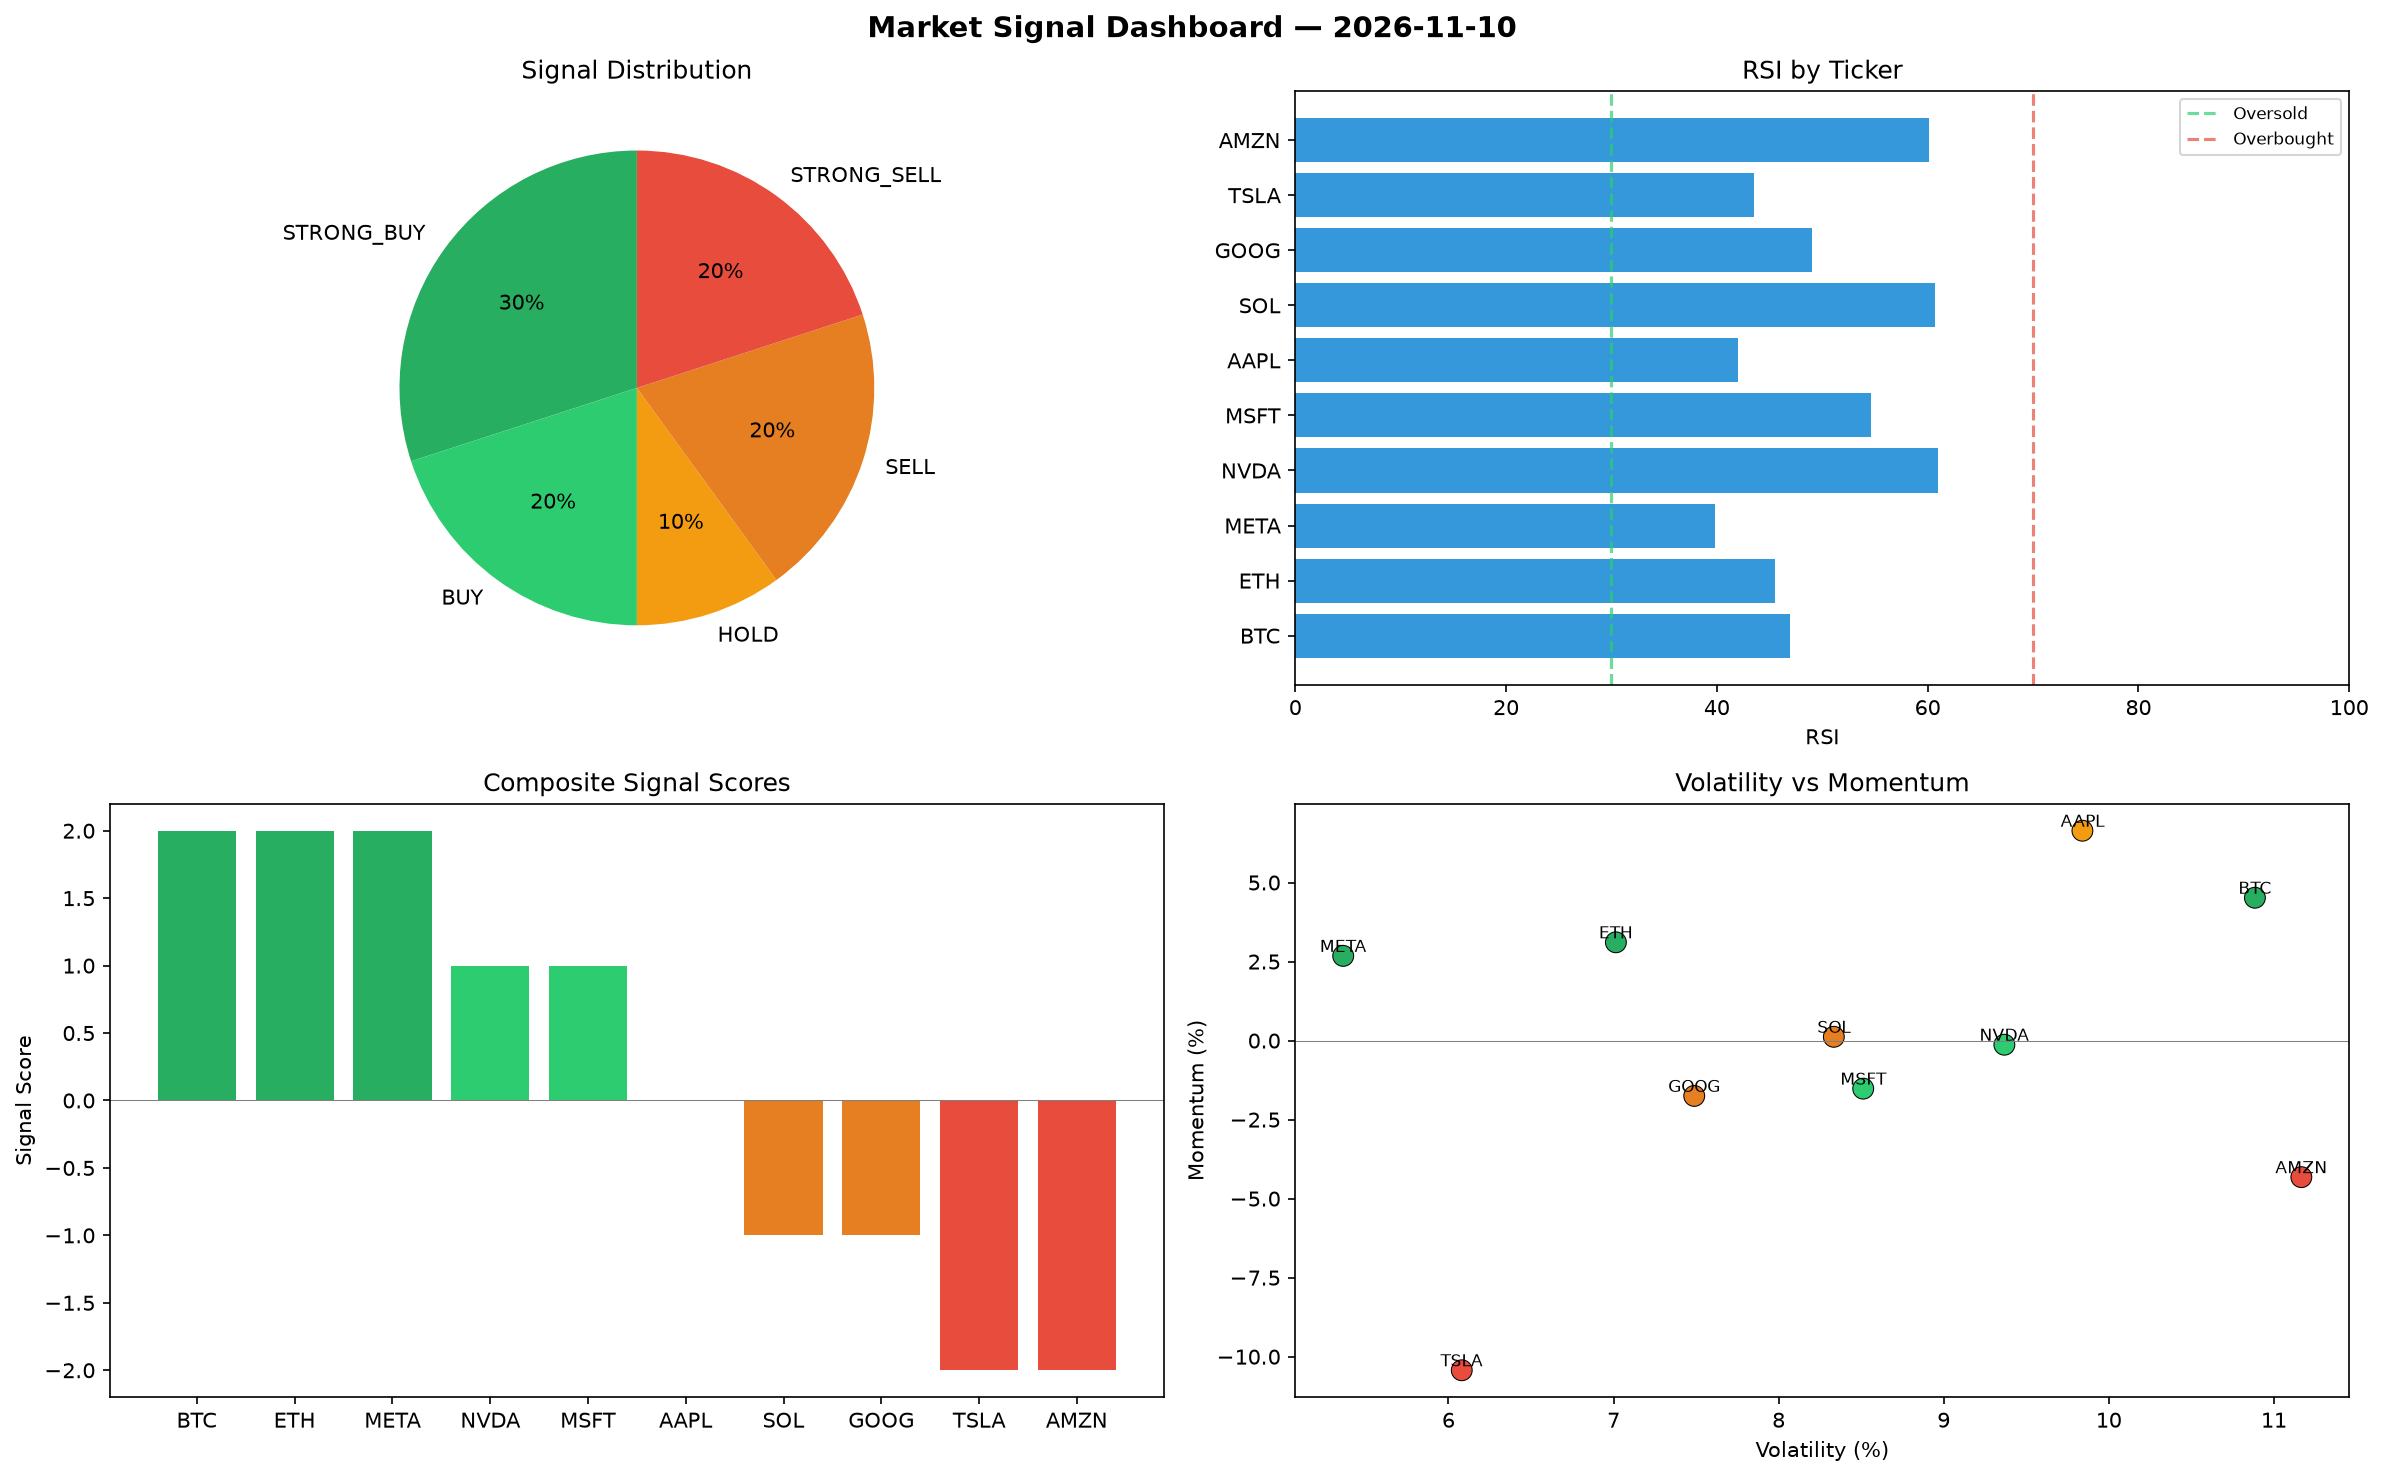
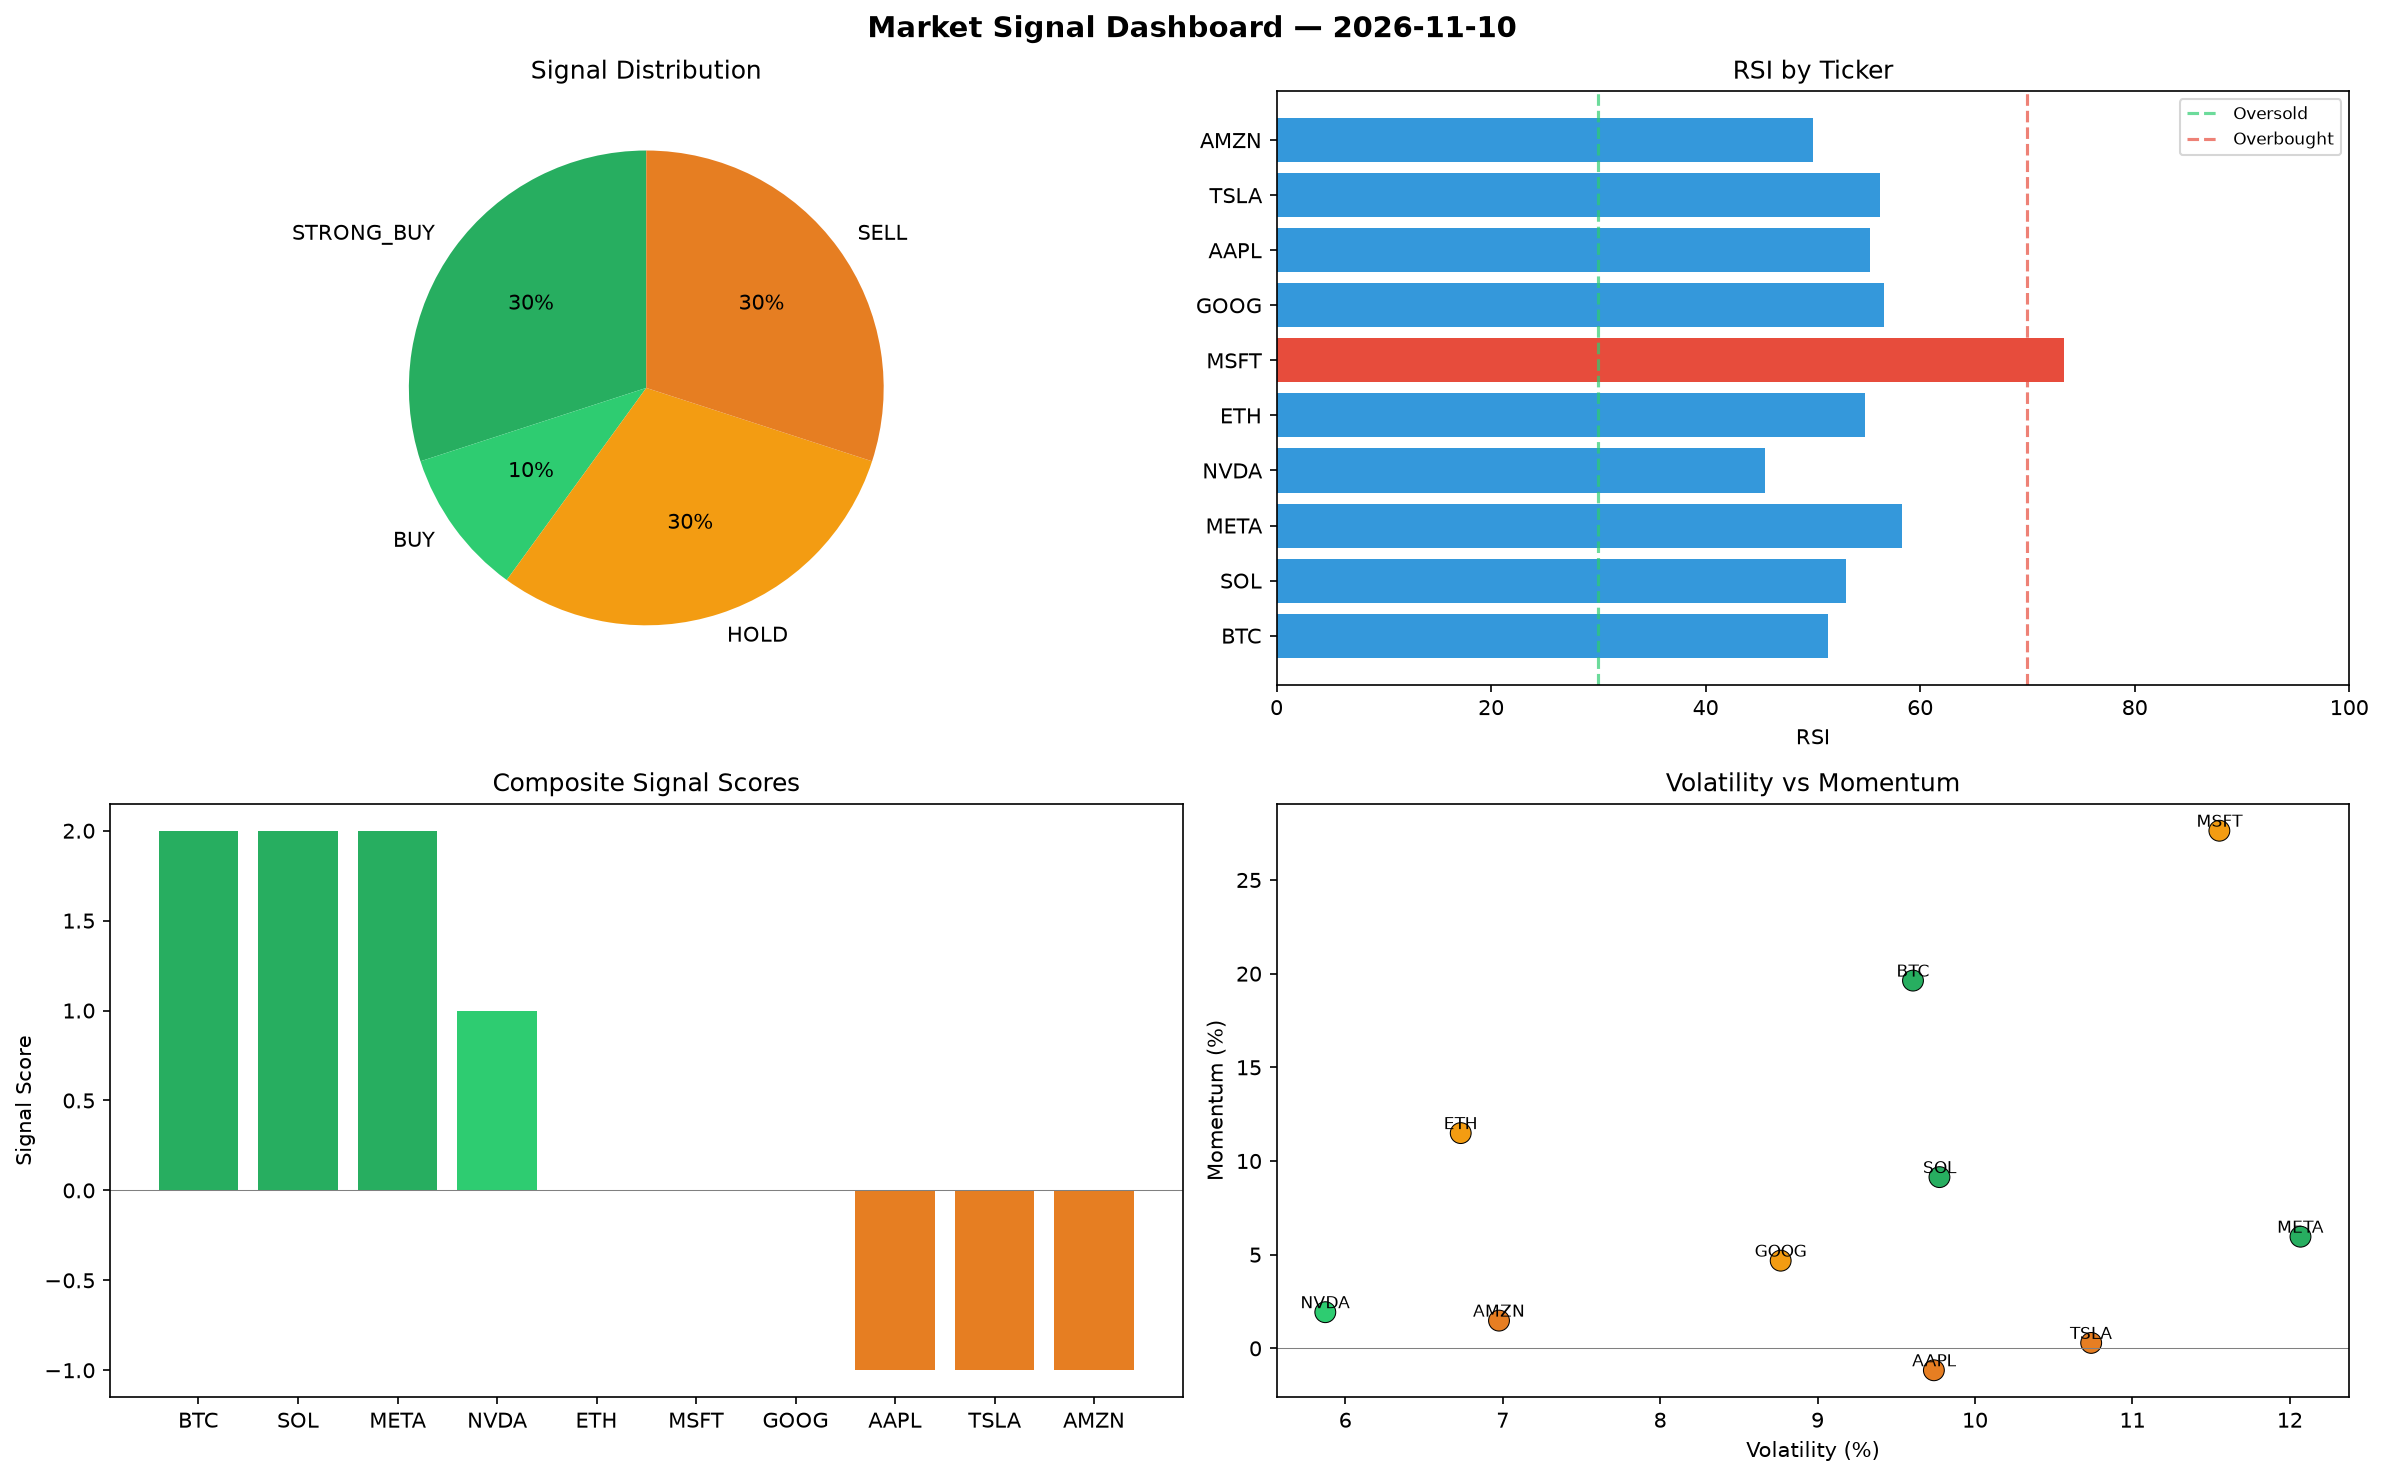
automated-bots: market signals 2026-11-10T20:57

diff --git a/logs/2026-11-10.md b/logs/2026-11-10.md
@@ -1,6 +1,6 @@
 # Market Signal Report — 2026-11-10
 
-**Run ID:** `9ba5004d50` | **Buy:** 5 | **Sell:** 4 | **Hold:** 1
+**Run ID:** `0fb30711e9` | **Buy:** 4 | **Sell:** 3 | **Hold:** 3
 
 ![Dashboard](2026-11-10_dashboard.png)
 
@@ -8,28 +8,28 @@
 
 | Ticker | Price | Signal | Score | RSI | Momentum | Confidence |
 |--------|-------|--------|-------|-----|----------|------------|
-| BTC | $2290.82 | **STRONG_BUY** | 2 | 46.98 | 0.0452 | 0.5 |
-| ETH | $3060.31 | **STRONG_BUY** | 2 | 45.49 | 0.0311 | 0.5 |
-| META | $1339.08 | **STRONG_BUY** | 2 | 39.83 | 0.0268 | 0.5 |
-| NVDA | $1766.92 | **BUY** | 1 | 60.97 | -0.0013 | 0.25 |
-| MSFT | $3710.06 | **BUY** | 1 | 54.64 | -0.0152 | 0.25 |
-| AAPL | $3502.88 | **HOLD** | 0 | 42.0 | 0.0664 | 0.0 |
-| SOL | $3670.43 | **SELL** | -1 | 60.7 | 0.0012 | 0.25 |
-| GOOG | $1883.31 | **SELL** | -1 | 49.0 | -0.0175 | 0.25 |
-| TSLA | $335.63 | **STRONG_SELL** | -2 | 43.53 | -0.1043 | 0.5 |
-| AMZN | $640.4 | **STRONG_SELL** | -2 | 60.09 | -0.0432 | 0.5 |
+| BTC | $169.38 | **STRONG_BUY** | 2 | 51.41 | 0.1963 | 0.5 |
+| SOL | $2356.5 | **STRONG_BUY** | 2 | 53.08 | 0.0914 | 0.5 |
+| META | $2267.2 | **STRONG_BUY** | 2 | 58.3 | 0.0596 | 0.5 |
+| NVDA | $1974.58 | **BUY** | 1 | 45.49 | 0.0193 | 0.25 |
+| ETH | $2370.33 | **HOLD** | 0 | 54.85 | 0.1149 | 0.0 |
+| MSFT | $2174.91 | **HOLD** | 0 | 73.4 | 0.2763 | 0.0 |
+| GOOG | $3793.96 | **HOLD** | 0 | 56.59 | 0.0468 | 0.0 |
+| AAPL | $1144.63 | **SELL** | -1 | 55.33 | -0.0117 | 0.25 |
+| TSLA | $2006.61 | **SELL** | -1 | 56.24 | 0.0029 | 0.25 |
+| AMZN | $823.36 | **SELL** | -1 | 50.03 | 0.0148 | 0.25 |
 
 ## Delta vs Yesterday
 
 | Ticker | Today | Yesterday | Price Change | Signal Changed |
 |--------|-------|-----------|-------------|----------------|
-| BTC | STRONG_BUY | STRONG_BUY | 📉 -44.59% | — |
-| ETH | STRONG_BUY | STRONG_BUY | 📈 28.82% | — |
-| META | STRONG_BUY | STRONG_SELL | 📉 -41.97% | ⚠ YES |
-| NVDA | BUY | STRONG_BUY | 📈 98.05% | ⚠ YES |
-| MSFT | BUY | BUY | 📈 142.66% | — |
-| AAPL | HOLD | STRONG_SELL | 📈 17.63% | ⚠ YES |
-| SOL | SELL | STRONG_SELL | 📈 1589.65% | ⚠ YES |
-| GOOG | SELL | STRONG_SELL | 📈 39.12% | ⚠ YES |
-| TSLA | STRONG_SELL | STRONG_BUY | 📉 -32.39% | ⚠ YES |
-| AMZN | STRONG_SELL | SELL | 📉 -58.53% | ⚠ YES |
+| BTC | STRONG_BUY | STRONG_BUY | 📉 -95.9% | — |
+| SOL | STRONG_BUY | STRONG_SELL | 📈 984.79% | ⚠ YES |
+| META | STRONG_BUY | STRONG_SELL | 📉 -1.74% | ⚠ YES |
+| NVDA | BUY | STRONG_BUY | 📈 121.33% | ⚠ YES |
+| ETH | HOLD | STRONG_BUY | 📉 -0.22% | ⚠ YES |
+| MSFT | HOLD | BUY | 📈 42.25% | ⚠ YES |
+| GOOG | HOLD | STRONG_SELL | 📈 180.26% | ⚠ YES |
+| AAPL | SELL | STRONG_SELL | 📉 -61.56% | ⚠ YES |
+| TSLA | SELL | STRONG_BUY | 📈 304.2% | ⚠ YES |
+| AMZN | SELL | SELL | 📉 -46.68% | — |
